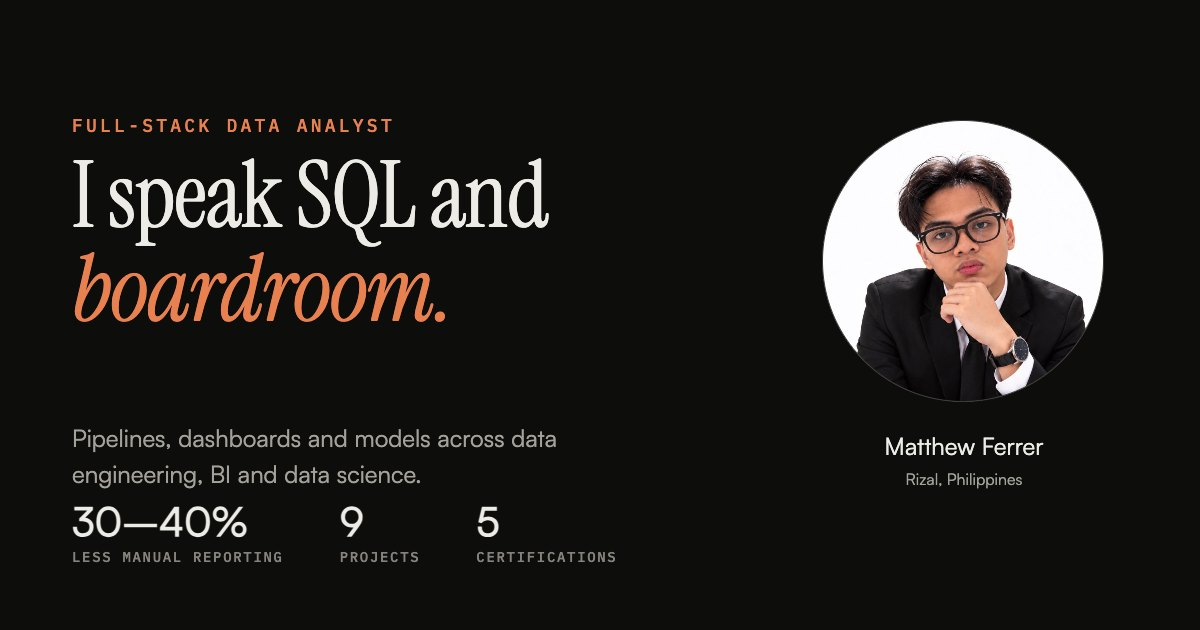
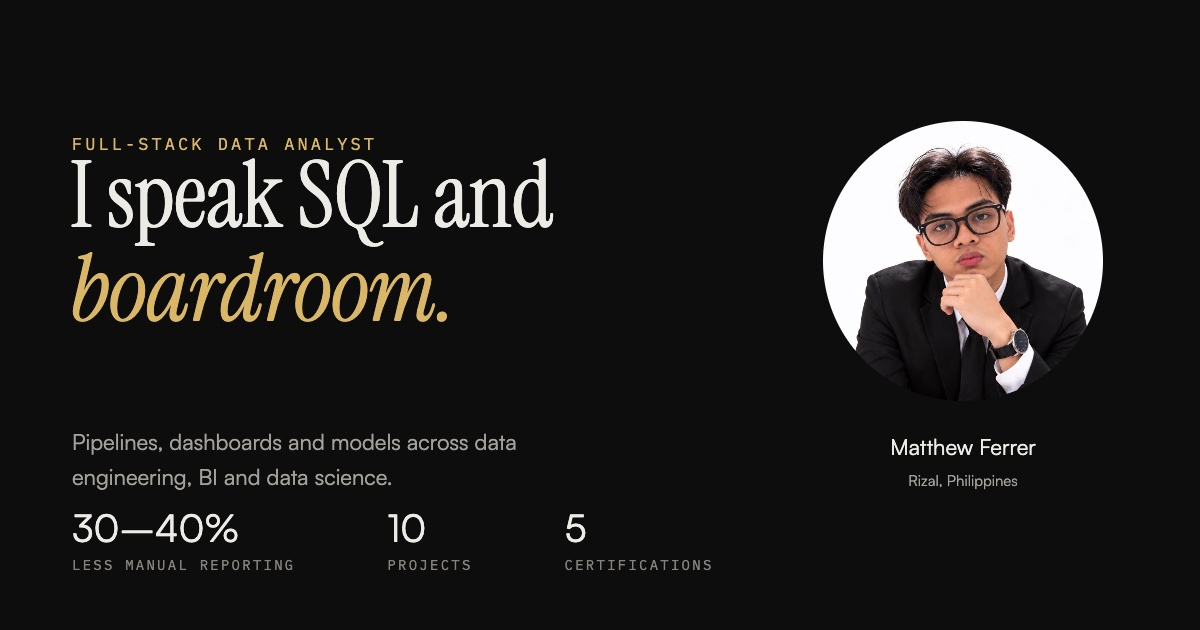
Accent colour: brass gold instead of copper orange
Gold #c9a24a buttons with dark text (8.1:1), #d9b766 labels and links (10.1:1
on the page). Logo, favicon, hero network, home-screen icon and link preview
updated; the preview now also says 10 projects.

diff --git a/index.html b/index.html
@@ -73,7 +73,7 @@ document.documentElement.classList.add('js');
 
 <header class="site-nav">
   <div class="nav-inner">
-    <a class="brand" href="#top" aria-label="Matthew Ferrer, back to top"><svg class="brand-mark" viewBox="0 0 64 64" aria-hidden="true" focusable="false"><rect width="64" height="64" fill="#1c1b19"/><g transform="translate(32 32) scale(1.12) translate(-32 -32)"><path fill="#ecebe6" d="M8 46V18h8l4.5 15L25 18h8v28h-6.5V31l-4 13h-5l-4-13v15z"/><path fill="#e8814f" d="M37 46V18h19v6.5H43.5v5H54V36H43.5v10z"/></g></svg><span>Matthew <b>Ferrer</b></span></a>
+    <a class="brand" href="#top" aria-label="Matthew Ferrer, back to top"><svg class="brand-mark" viewBox="0 0 64 64" aria-hidden="true" focusable="false"><rect width="64" height="64" fill="#1c1b19"/><g transform="translate(32 32) scale(1.12) translate(-32 -32)"><path fill="#ecebe6" d="M8 46V18h8l4.5 15L25 18h8v28h-6.5V31l-4 13h-5l-4-13v15z"/><path fill="#d9b766" d="M37 46V18h19v6.5H43.5v5H54V36H43.5v10z"/></g></svg><span>Matthew <b>Ferrer</b></span></a>
     <nav class="nav-links" id="navLinks" aria-label="Main navigation">
       <a href="#services">What I do</a>
       <a href="#work">Work</a>
@@ -786,7 +786,7 @@ document.documentElement.classList.add('js');
 <footer class="site-footer">
   <div class="wrap foot-grid">
     <div class="foot-brand">
-      <a class="brand" href="#top" aria-label="Matthew Ferrer, back to top"><svg class="brand-mark" viewBox="0 0 64 64" aria-hidden="true" focusable="false"><rect width="64" height="64" fill="#1c1b19"/><g transform="translate(32 32) scale(1.12) translate(-32 -32)"><path fill="#ecebe6" d="M8 46V18h8l4.5 15L25 18h8v28h-6.5V31l-4 13h-5l-4-13v15z"/><path fill="#e8814f" d="M37 46V18h19v6.5H43.5v5H54V36H43.5v10z"/></g></svg><span>Matthew <b>Ferrer</b></span></a>
+      <a class="brand" href="#top" aria-label="Matthew Ferrer, back to top"><svg class="brand-mark" viewBox="0 0 64 64" aria-hidden="true" focusable="false"><rect width="64" height="64" fill="#1c1b19"/><g transform="translate(32 32) scale(1.12) translate(-32 -32)"><path fill="#ecebe6" d="M8 46V18h8l4.5 15L25 18h8v28h-6.5V31l-4 13h-5l-4-13v15z"/><path fill="#d9b766" d="M37 46V18h19v6.5H43.5v5H54V36H43.5v10z"/></g></svg><span>Matthew <b>Ferrer</b></span></a>
       <p>Full-stack data analyst: data engineering, BI and data science.</p>
       <p class="foot-built">Built with <strong>HTML</strong>, <strong>CSS</strong> and <strong>JavaScript</strong>.</p>
     </div>

diff --git a/style.css b/style.css
@@ -96,7 +96,7 @@
 }
 
 :root {
-  /* Colour: near-black, warm greys, one copper */
+  /* Colour: near-black, warm greys, one gold */
   --bg: #0d0d0c;
   --surface: #151513;
   --surface-2: #1c1b19;
@@ -105,10 +105,10 @@
   --ink: #ecebe6;
   --muted: #a3a19a;
   --dim: #85837c;
-  --accent: #c2501f;
-  --accent-hover: #a8441a;
-  --accent-text: #e8814f;
-  --accent-ink: #ffffff;
+  --accent: #c9a24a;
+  --accent-hover: #b08a36;
+  --accent-text: #d9b766;
+  --accent-ink: #0d0d0c;
   --paper: #f4f4f2;
 
   /* Type */
@@ -438,13 +438,13 @@ a, button, summary, input {
 }
 
 .hero-net line {
-  stroke: #e8814f;
+  stroke: var(--accent-text);
   stroke-opacity: .16;
   stroke-width: 1;
 }
 
 .hero-net circle {
-  fill: #e8814f;
+  fill: var(--accent-text);
   fill-opacity: .55;
 }
 
@@ -2146,7 +2146,7 @@ html.lenis,
 }
 
 /* In-page links: press, travel, arrive.
-   1. A copper line draws under the link (and stays under the section being read). */
+   1. A gold line draws under the link (and stays under the section being read). */
 
 .nav-links a,
 .foot-col a {
@@ -2187,7 +2187,7 @@ html.lenis,
   transition-duration: 0s;
 }
 
-/* 3. On arrival the section's label is underlined in copper, then lets go; its heading settles. */
+/* 3. On arrival the section's label is underlined in gold, then lets go; its heading settles. */
 
 .label.is-arriving {
   position: relative;
@@ -2209,7 +2209,7 @@ html.lenis,
   animation: arrive-settle .9s var(--ease) both;
 }
 
-/* A featured card gets a copper edge that fades. */
+/* A featured card gets a gold edge that fades. */
 .card.is-arriving {
   animation: arrive-edge 1.8s var(--ease) both;
 }

diff --git a/script.js b/script.js
@@ -190,7 +190,7 @@ if ('IntersectionObserver' in window) {
 }
 
 /* Arrival: when an in-page link lands, the section's label is underlined and its heading settles
-   (a featured card gets a copper edge instead). Focus moves there for keyboard users. */
+   (a featured card gets a gold edge instead). Focus moves there for keyboard users. */
 
 function arrive(target) {
   if (!target) {

diff --git a/README.md b/README.md
@@ -50,11 +50,11 @@ need to be published.
 Edit career dates, project descriptions, and destination links in index.html.
 Edit colors, typography, responsive layouts, and motion in style.css.
 Colors and type sizes are tokens at the top of style.css (--bg, --ink, --accent, --step-*).
-Design: dark and information-first, inspired by valiotti.com: serif headlines with one italic copper word,
+Design: dark and information-first, inspired by valiotti.com: serif headlines with one italic gold word,
 small mono labels, outlined cards, a numbers row, a trust band, an FAQ and a centred close.
 Unique to this site: the live dashboard recording in the project cards, the browser tour of the client
 websites, his own photographs, and the hero network drawn as 26 points, one per tool, clustered by tool group.
-Palette: near-black #0d0d0c, warm greys, one copper (#c2501f buttons, #e8814f text).
+Palette: near-black #0d0d0c, warm greys, one brass gold (#c9a24a buttons with dark text, #d9b766 text).
 Typefaces: Instrument Serif (headlines) and IBM Plex Mono (labels), SIL Open Font License; Satoshi (reading),
 ITF Free Font License. All stored in assets/fonts/, so they work offline too. The Satoshi files are trimmed
 to Latin letters, punctuation and arrows to load faster; the stylesheet also sets size-matched stand-ins
